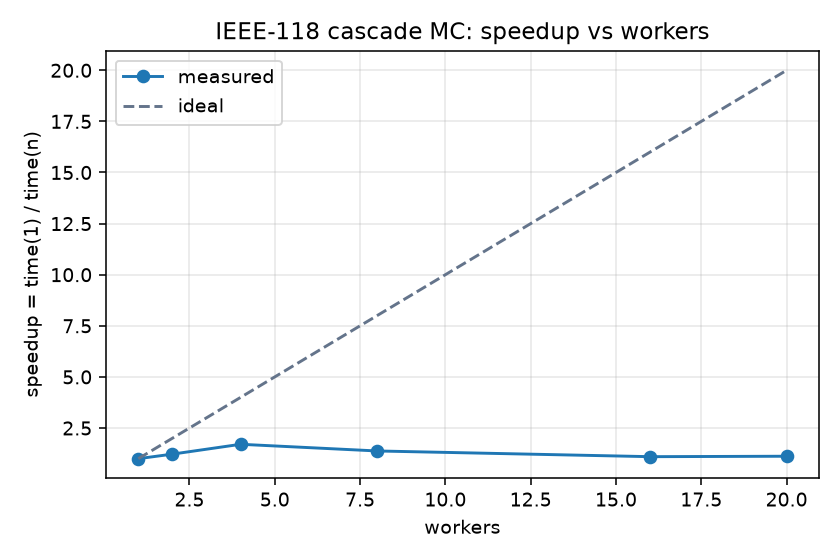
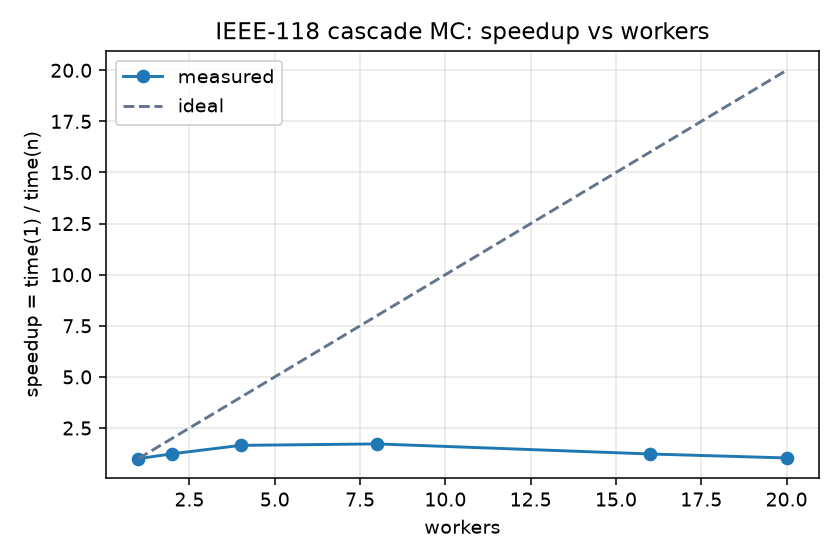
Changed m value to be 2 all the time. Run tests one more

Changed region(s): [[0.2476, 0.7589, 0.9286, 0.8196]]

diff --git a/source/grid-mimd/README.md b/source/grid-mimd/README.md
@@ -28,20 +28,20 @@
 
 | Workers | Час, с | Throughput, trials/s | Speedup | Efficiency | Послідовна частка `f` (Амдал) |
 | :--- | :--- | :--- | :--- | :--- | :--- |
-| 1 | 0.457 | 21 902 | 1.00 | 1.00 | — |
-| 2 | 0.373 | 26 777 | 1.22 | 0.61 | 0.64 |
-| **4** | **0.268** | **37 326** | **1.70** | 0.43 | 0.45 |
-| 8 | 0.332 | 30 164 | 1.38 | 0.17 | 0.69 |
-| 16 | 0.416 | 24 046 | 1.10 | 0.07 | 0.90 |
-| 20 (`cpu_count`) | 0.408 | 24 517 | 1.12 | 0.06 | 0.89 |
+| 1 | 0.451 | 22 149 | 1.00 | 1.00 | — |
+| 2 | 0.364 | 27 476 | 1.24 | 0.62 | 0.61 |
+| 4 | 0.273 | 36 566 | 1.65 | 0.41 | 0.47 |
+| **8** | **0.262** | **38 148** | **1.72** | 0.22 | 0.52 |
+| 16 | 0.367 | 27 231 | 1.23 | 0.08 | 0.80 |
+| 20 (`cpu_count`) | 0.436 | 22 936 | 1.04 | 0.05 | 0.96 |
 
-`k = 1`. Для `k = 2` картина та сама: максимум 1.83× на 8 воркерах, 1.38× на 20.
+`k = 1`. Для `k = 2` картина та сама: максимум 1.81× на 8 воркерах, 1.27× на 20.
 
 ![speedup](speedup.png)
 
-**Коментар.** Speedup досягає максимуму 1.7× на 4 воркерах і далі падає. Throughput на 20 воркерах (24 517 trials/s) майже такий самий, як на одному (21 902).
+**Коментар.** Speedup досягає максимуму 1.72× на 8 воркерах і далі падає. Throughput на 20 воркерах (22 936 trials/s) майже такий самий, як на одному (22 149). Повторний прогін дав ті самі результати Монте-Карло, а час відрізнявся на кілька відсотків: на першому прогоні максимум був 1.70× на 4 воркерах.
 
-- За законом Амдала `S(n) = 1 / (f + (1 − f)/n)`, де `f` — частка роботи, яку не можна розпаралелити. Якби `f` була сталою, speedup ріс би до межі `1/f` і не падав. Тут оцінка `f` росте з кількістю воркерів: 0.45 на 4 і 0.89 на 20. Отже, вузьке місце — не послідовна частина алгоритму, а накладні витрати, які ростуть разом із кількістю процесів.
+- За законом Амдала `S(n) = 1 / (f + (1 − f)/n)`, де `f` — частка роботи, яку не можна розпаралелити. Якби `f` була сталою, speedup ріс би до межі `1/f` і не падав. Тут оцінка `f` росте з кількістю воркерів: 0.47 на 4 і 0.96 на 20. Отже, вузьке місце — не послідовна частина алгоритму, а накладні витрати, які ростуть разом із кількістю процесів.
 - Таке накладне — це старт `Pool`. На Windows кожен воркер запускається через `spawn`: новий інтерпретатор Python заново імпортує `numpy`, `engine` і завантажувач датасету. Усі trials разом займають лише ~0.46 с, тож старт навіть кількох процесів займає помітну частину заміру.
 - Передача даних вузьким місцем не є. Топологія після `pickle` важить 9 КБ на чанк, при 80 чанках це менше 1 МБ.
 - Самі trials незалежні, без спільного стану й синхронізації. Тому вплив накладних витрат зменшиться зі зростанням `N` або якщо пул створювати один раз на весь бенчмарк, а не на кожен прогін (`SHARED_POOL` у `cloud_grid/source/mimd-pc/app.py`).
@@ -56,7 +56,7 @@
 | 2 | 14 | 9–10 | 92 | 0.011 |
 | 3 | 54 | 34–36 | 117 | 0.009 |
 
-Рейтинг спирається лише на **2 блекаути з 10 000 trials**: кожна лінія з таблиці була в шоку в одному з них. Це вказівка на район мережі (вузол 34), а не стабільна оцінка. Щоб отримати статистично стійкий топ, потрібні більше `N` або стрес-режим `--unrated-margin 1.5`: на 1000 trials при `k = 1` він дав `P(blackout) = 0.003` і каскади у 3.7% trials.
+Рейтинг спирається лише на **2 блекаути з 10 000 trials**: кожна лінія з таблиці була в шоку в одному з них. Це вказівка на район мережі (вузол 34), а не стабільна оцінка. Для статистично стійкого топу потрібне більше `N` (етап 4: `10^6 … 10^7`).
 
 ## Підготовка
 
@@ -87,11 +87,9 @@ pip install numpy scipy h5py matplotlib networkx
 # швидка перевірка + графіки даних сценарію
 python app.py --trials 1000 --workers 1 --viz
 
-# звіт: k = 1 (обов'язково) і k = 2, ємність ліній без рейтингу m = 2.0 (default) і m = 1.5
+# звіт: k = 1 (обов'язково) і k = 2
 python app.py --headless --trials 10000 --k 1
 python app.py --headless --trials 10000 --k 2 --out benchmark_results_mimd_grid_k2.json
-python app.py --headless --trials 10000 --k 1 --unrated-margin 1.5 --out benchmark_results_mimd_grid_m1.5.json
-python app.py --headless --trials 10000 --k 2 --unrated-margin 1.5 --out benchmark_results_mimd_grid_k2_m1.5.json
 ```
 
 `--headless` проганяє ті самі `N` trials з тим самим seed для `workers = 1, 2, 4, …, --workers` і пише JSON та `speedup.png` (для іншого `--out` — `<stem>_speedup.png`).

diff --git a/docs/work/PLAN.md b/docs/work/PLAN.md
@@ -202,27 +202,23 @@ Trial послідовний:
 
 ### Прогони для звіту
 
-`N = 10 000`, `--shock weighted`, `--seed 42` (той самий сценарій `s = 83810` в усіх прогонах). Дві серії за `m`:
+`N = 10 000`, `--shock weighted`, `--seed 42` (той самий сценарій `s = 83810`), `m = 2.0` (default):
 
-| `k` | `m` | `--out` | Графік |
-| :--- | :--- | :--- | :--- |
-| 1 | 2.0 | `benchmark_results_mimd_grid.json` | `speedup.png` |
-| 2 | 2.0 | `benchmark_results_mimd_grid_k2.json` | `benchmark_results_mimd_grid_k2_speedup.png` |
-| 1 | 1.5 | `benchmark_results_mimd_grid_m1.5.json` | `benchmark_results_mimd_grid_m1.5_speedup.png` |
-| 2 | 1.5 | `benchmark_results_mimd_grid_k2_m1.5.json` | `benchmark_results_mimd_grid_k2_m1.5_speedup.png` |
+| `k` | `--out` | Графік |
+| :--- | :--- | :--- |
+| 1 | `benchmark_results_mimd_grid.json` | `speedup.png` |
+| 2 | `benchmark_results_mimd_grid_k2.json` | `benchmark_results_mimd_grid_k2_speedup.png` |
 
 ```bash
 cd my-grid-lab/source/grid-mimd
 python app.py --headless --trials 10000 --k 1
 python app.py --headless --trials 10000 --k 2 --out benchmark_results_mimd_grid_k2.json
-python app.py --headless --trials 10000 --k 1 --unrated-margin 1.5 --out benchmark_results_mimd_grid_m1.5.json
-python app.py --headless --trials 10000 --k 2 --unrated-margin 1.5 --out benchmark_results_mimd_grid_k2_m1.5.json
 ```
 
-У звіті:
+У звіті (`README.md`, розділ «Результати»):
 
-- `m = 2.0` — default; `m = 1.5` — стрес-режим. `m` — припущення замість відсутніх лімітів 147 ліній, не величина з датасету; `P(blackout)` від нього сильно залежить (§3).
-- Таблиця: `P(blackout)`, `cascade_fraction`, mean `dns_proxy` для 4 прогонів; top-5 ліній з прогонів `m = 1.5`.
+- `P(blackout)` для `k = 1` (і `k = 2`), throughput при 1 і `cpu_count` воркерах, speedup з коментарем, топ-3 ліній.
+- `m` — припущення замість відсутніх лімітів 147 ліній, не величина з датасету (§3). При `k = 1` блекаутів 0, тому топ-3 — з прогону `k = 2`.
 - Speedup: при `N = 10 000` один прогін триває ~0.5 с, тому старт `Pool` (spawn) займає помітну частку часу і обмежує speedup (~1.7× на 4 воркерах у прогоні v2). Це фіксується у звіті як накладні витрати.
 
 ---
@@ -244,7 +240,7 @@ python app.py --headless --trials 10000 --k 2 --unrated-margin 1.5 --out benchma
 
 Закриті:
 
-- Ємність ліній з `lr <= 0` — варіант B (§3); default `m = 2.0`, у звіті серії `m = 2.0` і `m = 1.5`, `N = 10 000` (§8).
+- Ємність ліній з `lr <= 0` — варіант B (§3); default `m = 2.0`; у звіті лише `m = 2.0`, `N = 10 000` (§8).
 - `my-grid-lab/app.py` — видалено (§1).
 - TRIP — одна найгірша лінія за крок.
 - Топологія — в `args` чанка.
